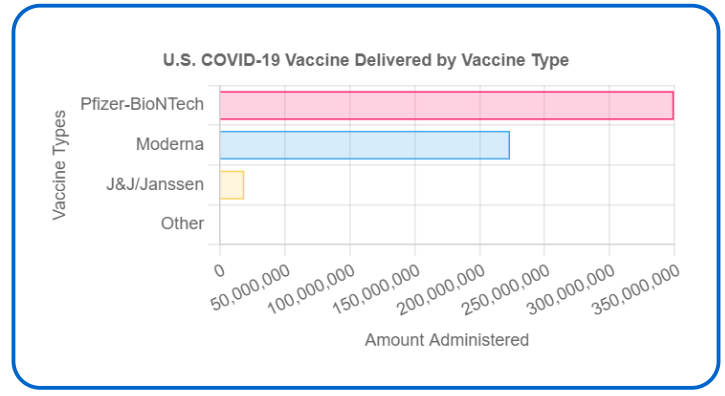
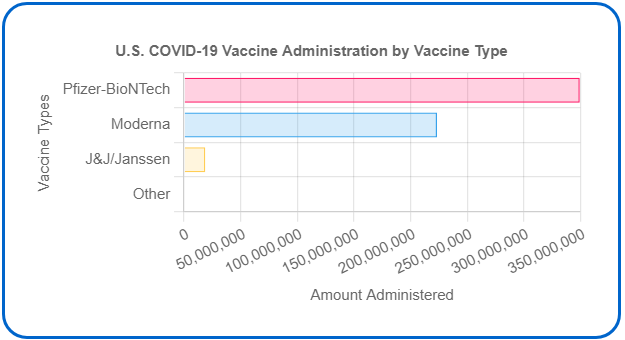
adjusted bar charts

diff --git a/templates/index.html b/templates/index.html
@@ -374,7 +374,7 @@
             },
             title: {
               display: true,  
-              text: 'U.S. COVID-19 Vaccine Administration by Vaccine Type'
+              text: 'U.S. COVID-19 Vaccine Delivered by Vaccine Type'
             }
         }
 
@@ -411,7 +411,7 @@
             },
             title: {
               display: true,  
-              text: 'U.S. COVID-19 Vaccine Delivered by Vaccine Type'
+              text: 'U.S. COVID-19 Vaccine Administration by Vaccine Type'
             }
         }
 

diff --git a/README.md b/README.md
@@ -87,10 +87,10 @@ The data in the dashboards in the [covid_cases](https://covid.cdc.gov/covid-data
 
 ## Plotly Creation
 Chart.js was used to create horizontal bar charts showing:
-- U.S. COVID-19 Vaccine Delivered by Vaccine Type
+- U.S. COVID-19 Vaccine Administered by Vaccine Type
 ![bar1](Images/bar1.PNG)
 
-- U.S. COVID-19 Vaccine Administration by Vaccine Type
+- U.S. COVID-19 Vaccine Delivered by Vaccine Type
 ![bar2](Images/bar2.PNG)
 
 ## Conclusion
